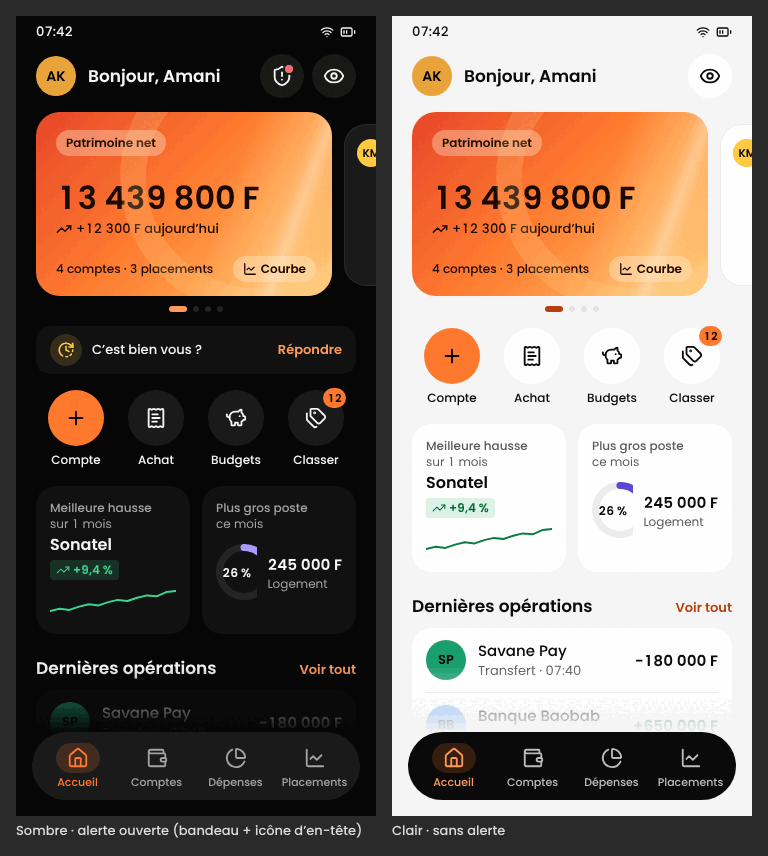
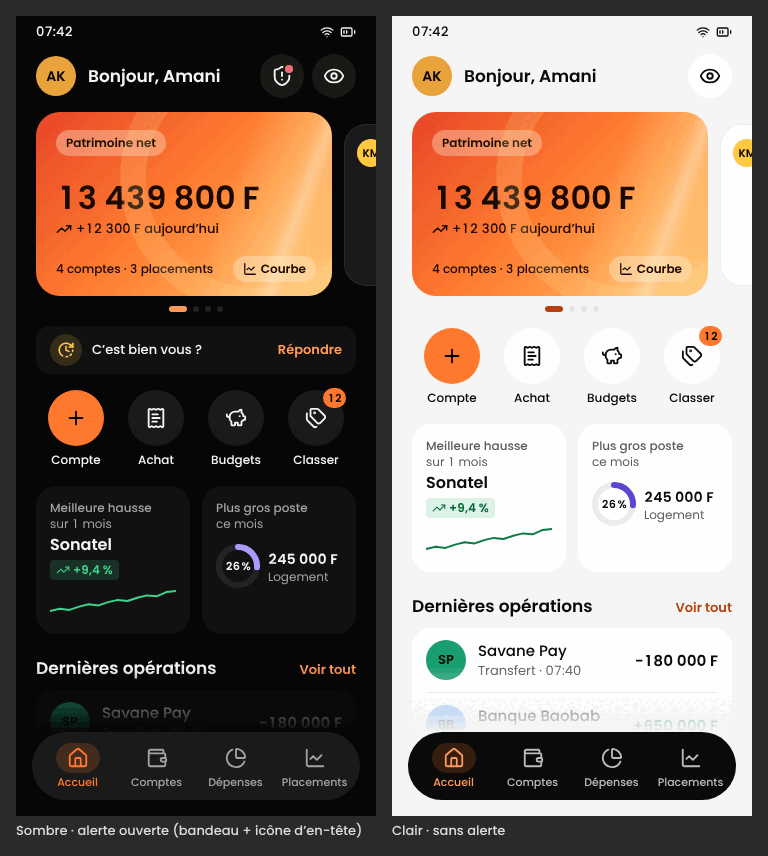
Fix 'Plus gros poste' tile: C17 ring was squeezed and clipped; now Mini 44 dp, fixed size (Home v2, M14 preview, specs)
Claude-Session: https://claude.ai/code/session_01Cw13Lh4aoVkJ6o2f1egyLQ

Changed region(s): [[0.7812, 0.5467, 0.9375, 0.6379], [0.2812, 0.6379, 0.4375, 0.6986]]

diff --git a/design/previews/m14-app-opening-plan.html b/design/previews/m14-app-opening-plan.html
@@ -21,7 +21,7 @@ body{margin:0;background:#2a2a2a;font:15px/22px P}.w{display:flex;gap:16px;paddi
 .cnt{position:absolute;right:-2px;top:-2px;min-width:20px;height:20px;border-radius:10px;background:#FF7A2F;color:#060606;font:600 11px/20px P;text-align:center;font-style:normal;padding:0 4px;box-sizing:border-box}
 .tiles{display:flex;gap:12px;padding:0 20px;margin-top:18px}.tile{flex:1 1 0;min-width:0;height:148px;border-radius:20px;background:var(--s1);padding:14px;box-sizing:border-box;position:relative}
 .tl{font:500 12px/16px P;color:var(--ts)}.tv{font:600 16px/22px P;margin-top:6px;white-space:nowrap}.tg{display:inline-flex;align-items:center;gap:3px;font:600 12px/16px P;padding:2px 6px;border-radius:4px;background:var(--gf);color:var(--gt);margin-top:4px}.sp{margin-top:6px}.tv{margin-top:2px!important}.sbi{width:32px;height:32px;border-radius:50%;background:var(--cf);color:var(--ct);display:grid;place-items:center;flex:none}.tl{white-space:nowrap}.tf2b{font:400 12px/16px P;color:var(--ts)}.tf{position:absolute;left:14px;bottom:12px;font:400 12px/16px P;color:var(--ts)}
-.tr{display:flex;gap:10px;align-items:center;margin-top:12px}.tr .tv{font-size:15px;margin-top:0}.tf2{font:400 12px/16px P;color:var(--ts)}
+.tr{display:flex;flex-wrap:wrap;gap:8px;align-items:center;margin-top:12px}.rgm{flex:none}.tr .tv{font-size:14px;line-height:20px;margin-top:0;white-space:nowrap}.tf2{font:400 12px/16px P;color:var(--ts)}
 .lh{display:flex;justify-content:space-between;align-items:baseline;padding:0 20px;margin-top:22px}.lh b{font:600 17px/24px P}.lh span{font:600 13px P;color:var(--brt)}
 .list{margin:10px 20px 0;background:var(--s1);border-radius:20px;padding:0 14px}.row{display:flex;align-items:center;gap:12px;height:64px;border-top:1px solid var(--hl)}.row:first-child{border-top:0}.mo{width:40px;height:40px;border-radius:50%;display:grid;place-items:center;font:600 13px P;color:#060606;flex:none}.rt{flex:1;display:flex;flex-direction:column}.rt b{font:500 15px/22px P}.rt small{font:400 13px/18px P;color:var(--ts)}.ra{font:600 15px P;font-variant-numeric:tabular-nums}.ra.pos{color:var(--gain)}
 .fade{position:absolute;left:0;right:0;bottom:0;height:150px;background:linear-gradient(180deg,transparent 0%,var(--bg) 45%)}
@@ -49,7 +49,7 @@ body{margin:0;background:#2a2a2a;font:15px/22px P}.w{display:flex;gap:16px;paddi
 <div class="ban"><span class="sbi"> <svg xmlns="http://www.w3.org/2000/svg" width="18" height="18" viewBox="0 0 24 24" fill="none" stroke="currentColor" stroke-width="2.2" stroke-linecap="round" stroke-linejoin="round" > <path d="M12 3a9.75 9.75 0 0 1 6.74 2.74" /> <path d="M18.74 5.74 21 8" /> <path d="M21 8V3" /> <path d="M7.5 19.794c-6-3.464-6-12.124 0-15.588" /> <path d="M7.5 4.206A9 9 0 0 1 12 3" /> <path d="M12 7v5l4 2" /> <path d="M14 20.775A9 9 0 0 1 12 21" /> <path d="M19 17.656a9 9 0 0 1-1.5 1.456" /> <path d="M21 12a9 9 0 0 1-.228 2" /> <path d="M21 8h-5" /> </svg> </span><span class="bt">C’est bien vous ?</span><span class="ba">Répondre</span></div>
 <div class="acts"><div class="act"><span class="ac pri"> <svg xmlns="http://www.w3.org/2000/svg" width="22" height="22" viewBox="0 0 24 24" fill="none" stroke="currentColor" stroke-width="2" stroke-linecap="round" stroke-linejoin="round" > <path d="M5 12h14" /> <path d="M12 5v14" /> </svg> </span><span class="al">Compte</span></div><div class="act"><span class="ac"> <svg xmlns="http://www.w3.org/2000/svg" width="22" height="22" viewBox="0 0 24 24" fill="none" stroke="currentColor" stroke-width="2" stroke-linecap="round" stroke-linejoin="round" > <path d="M13 16H8" /> <path d="M14 8H8" /> <path d="M16 12H8" /> <path d="M4 3a1 1 0 0 1 1-1 1.3 1.3 0 0 1 .7.2l.933.6a1.3 1.3 0 0 0 1.4 0l.934-.6a1.3 1.3 0 0 1 1.4 0l.933.6a1.3 1.3 0 0 0 1.4 0l.933-.6a1.3 1.3 0 0 1 1.4 0l.934.6a1.3 1.3 0 0 0 1.4 0l.933-.6A1.3 1.3 0 0 1 19 2a1 1 0 0 1 1 1v18a1 1 0 0 1-1 1 1.3 1.3 0 0 1-.7-.2l-.933-.6a1.3 1.3 0 0 0-1.4 0l-.934.6a1.3 1.3 0 0 1-1.4 0l-.933-.6a1.3 1.3 0 0 0-1.4 0l-.933.6a1.3 1.3 0 0 1-1.4 0l-.934-.6a1.3 1.3 0 0 0-1.4 0l-.933.6a1.3 1.3 0 0 1-.7.2 1 1 0 0 1-1-1z" /> </svg> </span><span class="al">Achat</span></div><div class="act"><span class="ac"> <svg xmlns="http://www.w3.org/2000/svg" width="22" height="22" viewBox="0 0 24 24" fill="none" stroke="currentColor" stroke-width="2" stroke-linecap="round" stroke-linejoin="round" > <path d="M11 17h3v2a1 1 0 0 0 1 1h2a1 1 0 0 0 1-1v-3a3.16 3.16 0 0 0 2-2h1a1 1 0 0 0 1-1v-2a1 1 0 0 0-1-1h-1a5 5 0 0 0-2-4V3a4 4 0 0 0-3.2 1.6l-.3.4H11a6 6 0 0 0-6 6v1a5 5 0 0 0 2 4v3a1 1 0 0 0 1 1h2a1 1 0 0 0 1-1z" /> <path d="M16 10h.01" /> <path d="M2 8v1a2 2 0 0 0 2 2h1" /> </svg> </span><span class="al">Budgets</span></div><div class="act"><span class="ac"> <svg xmlns="http://www.w3.org/2000/svg" width="22" height="22" viewBox="0 0 24 24" fill="none" stroke="currentColor" stroke-width="2" stroke-linecap="round" stroke-linejoin="round" > <path d="M13.172 2a2 2 0 0 1 1.414.586l6.71 6.71a2.4 2.4 0 0 1 0 3.408l-4.592 4.592a2.4 2.4 0 0 1-3.408 0l-6.71-6.71A2 2 0 0 1 6 9.172V3a1 1 0 0 1 1-1z" /> <path d="M2 7v6.172a2 2 0 0 0 .586 1.414l6.71 6.71a2.4 2.4 0 0 0 3.191.193" /> <circle cx="10.5" cy="6.5" r=".5" fill="currentColor" /> </svg> <i class="cnt">12</i></span><span class="al">Classer</span></div></div>
 <div class="tiles"><div class="tile"><div class="tl">Meilleure hausse</div><div class="tf2b">sur 1 mois</div><div class="tv">Sonatel</div><span class="tg"> <svg xmlns="http://www.w3.org/2000/svg" width="14" height="14" viewBox="0 0 24 24" fill="none" stroke="currentColor" stroke-width="1.75" stroke-linecap="round" stroke-linejoin="round" > <path d="M16 7h6v6" /> <path d="m22 7-8.5 8.5-5-5L2 17" /> </svg> +9,4 %</span><div class="sp"><svg width="126" height="24"><path d="M0.0,22.0 L9.7,19.8 L19.4,20.9 L29.1,17.6 L38.8,15.3 L48.5,16.4 L58.2,13.1 L67.8,10.9 L77.5,12.0 L87.2,8.7 L96.9,6.4 L106.6,7.3 L116.3,3.1 L126.0,2.0" fill="none" stroke="#3DD68C" stroke-width="2" stroke-linecap="round" stroke-linejoin="round"/></svg></div></div>
-<div class="tile"><div class="tl">Plus gros poste</div><div class="tf2b">ce mois</div><div class="tr"><svg width="56" height="56"><circle cx="28.0" cy="28.0" r="24.5" fill="none" stroke="var(--track)" stroke-width="7"/><circle cx="28.0" cy="28.0" r="24.5" fill="none" stroke="#A99BFF" stroke-width="7" stroke-linecap="round" stroke-dasharray="153.9" stroke-dashoffset="113.9" transform="rotate(-90 28.0 28.0)"/><text x="50%" y="50%" dominant-baseline="central" text-anchor="middle" font-family="P" font-weight="600" font-size="12" fill="var(--tp)">26 %</text></svg><div><div class="tv">245 000 F</div><div class="tf2">Logement</div></div></div></div></div>
+<div class="tile"><div class="tl">Plus gros poste</div><div class="tf2b">ce mois</div><div class="tr"><svg class="rgm" width="44" height="44" viewBox="0 0 44 44"><circle cx="22" cy="22" r="19" fill="none" stroke="var(--track)" stroke-width="6"/><circle cx="22" cy="22" r="19" fill="none" stroke="#A99BFF" stroke-width="6" stroke-linecap="round" stroke-dasharray="119.38" stroke-dashoffset="88.34" transform="rotate(-90 22 22)"/><text x="50%" y="50%" dominant-baseline="central" text-anchor="middle" font-family="P" font-weight="600" font-size="11" fill="var(--tp)">26 %</text></svg><div><div class="tv">245 000 F</div><div class="tf2">Logement</div></div></div></div></div>
 <div class="lh"><b>Dernières opérations</b><span>Voir tout</span></div>
 <div class="list"><div class="row"><span class="mo" style="background:#199E70">SP</span><div class="rt"><b>Savane Pay</b><small>Transfert · 07:40</small></div><span class="ra">−180 000 F</span></div><div class="row"><span class="mo" style="background:#6AA8FF">BB</span><div class="rt"><b>Banque Baobab</b><small>Salaire · hier</small></div><span class="ra pos">+650 000 F</span></div><div class="row"><span class="mo" style="background:#FFC940">KM</span><div class="rt"><b>Kola Money</b><small>Courses · hier</small></div><span class="ra">−23 500 F</span></div></div>
 <div class="fade"></div>
@@ -66,7 +66,7 @@ body{margin:0;background:#2a2a2a;font:15px/22px P}.w{display:flex;gap:16px;paddi
 
 <div class="acts"><div class="act"><span class="ac pri"> <svg xmlns="http://www.w3.org/2000/svg" width="22" height="22" viewBox="0 0 24 24" fill="none" stroke="currentColor" stroke-width="2" stroke-linecap="round" stroke-linejoin="round" > <path d="M5 12h14" /> <path d="M12 5v14" /> </svg> </span><span class="al">Compte</span></div><div class="act"><span class="ac"> <svg xmlns="http://www.w3.org/2000/svg" width="22" height="22" viewBox="0 0 24 24" fill="none" stroke="currentColor" stroke-width="2" stroke-linecap="round" stroke-linejoin="round" > <path d="M13 16H8" /> <path d="M14 8H8" /> <path d="M16 12H8" /> <path d="M4 3a1 1 0 0 1 1-1 1.3 1.3 0 0 1 .7.2l.933.6a1.3 1.3 0 0 0 1.4 0l.934-.6a1.3 1.3 0 0 1 1.4 0l.933.6a1.3 1.3 0 0 0 1.4 0l.933-.6a1.3 1.3 0 0 1 1.4 0l.934.6a1.3 1.3 0 0 0 1.4 0l.933-.6A1.3 1.3 0 0 1 19 2a1 1 0 0 1 1 1v18a1 1 0 0 1-1 1 1.3 1.3 0 0 1-.7-.2l-.933-.6a1.3 1.3 0 0 0-1.4 0l-.934.6a1.3 1.3 0 0 1-1.4 0l-.933-.6a1.3 1.3 0 0 0-1.4 0l-.933.6a1.3 1.3 0 0 1-1.4 0l-.934-.6a1.3 1.3 0 0 0-1.4 0l-.933.6a1.3 1.3 0 0 1-.7.2 1 1 0 0 1-1-1z" /> </svg> </span><span class="al">Achat</span></div><div class="act"><span class="ac"> <svg xmlns="http://www.w3.org/2000/svg" width="22" height="22" viewBox="0 0 24 24" fill="none" stroke="currentColor" stroke-width="2" stroke-linecap="round" stroke-linejoin="round" > <path d="M11 17h3v2a1 1 0 0 0 1 1h2a1 1 0 0 0 1-1v-3a3.16 3.16 0 0 0 2-2h1a1 1 0 0 0 1-1v-2a1 1 0 0 0-1-1h-1a5 5 0 0 0-2-4V3a4 4 0 0 0-3.2 1.6l-.3.4H11a6 6 0 0 0-6 6v1a5 5 0 0 0 2 4v3a1 1 0 0 0 1 1h2a1 1 0 0 0 1-1z" /> <path d="M16 10h.01" /> <path d="M2 8v1a2 2 0 0 0 2 2h1" /> </svg> </span><span class="al">Budgets</span></div><div class="act"><span class="ac"> <svg xmlns="http://www.w3.org/2000/svg" width="22" height="22" viewBox="0 0 24 24" fill="none" stroke="currentColor" stroke-width="2" stroke-linecap="round" stroke-linejoin="round" > <path d="M13.172 2a2 2 0 0 1 1.414.586l6.71 6.71a2.4 2.4 0 0 1 0 3.408l-4.592 4.592a2.4 2.4 0 0 1-3.408 0l-6.71-6.71A2 2 0 0 1 6 9.172V3a1 1 0 0 1 1-1z" /> <path d="M2 7v6.172a2 2 0 0 0 .586 1.414l6.71 6.71a2.4 2.4 0 0 0 3.191.193" /> <circle cx="10.5" cy="6.5" r=".5" fill="currentColor" /> </svg> <i class="cnt">12</i></span><span class="al">Classer</span></div></div>
 <div class="tiles"><div class="tile"><div class="tl">Meilleure hausse</div><div class="tf2b">sur 1 mois</div><div class="tv">Sonatel</div><span class="tg"> <svg xmlns="http://www.w3.org/2000/svg" width="14" height="14" viewBox="0 0 24 24" fill="none" stroke="currentColor" stroke-width="1.75" stroke-linecap="round" stroke-linejoin="round" > <path d="M16 7h6v6" /> <path d="m22 7-8.5 8.5-5-5L2 17" /> </svg> +9,4 %</span><div class="sp"><svg width="126" height="24"><path d="M0.0,22.0 L9.7,19.8 L19.4,20.9 L29.1,17.6 L38.8,15.3 L48.5,16.4 L58.2,13.1 L67.8,10.9 L77.5,12.0 L87.2,8.7 L96.9,6.4 L106.6,7.3 L116.3,3.1 L126.0,2.0" fill="none" stroke="#0E7A43" stroke-width="2" stroke-linecap="round" stroke-linejoin="round"/></svg></div></div>
-<div class="tile"><div class="tl">Plus gros poste</div><div class="tf2b">ce mois</div><div class="tr"><svg width="56" height="56"><circle cx="28.0" cy="28.0" r="24.5" fill="none" stroke="var(--track)" stroke-width="7"/><circle cx="28.0" cy="28.0" r="24.5" fill="none" stroke="#5B47D1" stroke-width="7" stroke-linecap="round" stroke-dasharray="153.9" stroke-dashoffset="113.9" transform="rotate(-90 28.0 28.0)"/><text x="50%" y="50%" dominant-baseline="central" text-anchor="middle" font-family="P" font-weight="600" font-size="12" fill="var(--tp)">26 %</text></svg><div><div class="tv">245 000 F</div><div class="tf2">Logement</div></div></div></div></div>
+<div class="tile"><div class="tl">Plus gros poste</div><div class="tf2b">ce mois</div><div class="tr"><svg class="rgm" width="44" height="44" viewBox="0 0 44 44"><circle cx="22" cy="22" r="19" fill="none" stroke="var(--track)" stroke-width="6"/><circle cx="22" cy="22" r="19" fill="none" stroke="#5B47D1" stroke-width="6" stroke-linecap="round" stroke-dasharray="119.38" stroke-dashoffset="88.34" transform="rotate(-90 22 22)"/><text x="50%" y="50%" dominant-baseline="central" text-anchor="middle" font-family="P" font-weight="600" font-size="11" fill="var(--tp)">26 %</text></svg><div><div class="tv">245 000 F</div><div class="tf2">Logement</div></div></div></div></div>
 <div class="lh"><b>Dernières opérations</b><span>Voir tout</span></div>
 <div class="list"><div class="row"><span class="mo" style="background:#199E70">SP</span><div class="rt"><b>Savane Pay</b><small>Transfert · 07:40</small></div><span class="ra">−180 000 F</span></div><div class="row"><span class="mo" style="background:#6AA8FF">BB</span><div class="rt"><b>Banque Baobab</b><small>Salaire · hier</small></div><span class="ra pos">+650 000 F</span></div><div class="row"><span class="mo" style="background:#FFC940">KM</span><div class="rt"><b>Kola Money</b><small>Courses · hier</small></div><span class="ra">−23 500 F</span></div></div>
 <div class="fade"></div>

diff --git a/design/previews/s2-home-v2.html b/design/previews/s2-home-v2.html
@@ -21,7 +21,7 @@ body{margin:0;background:#2a2a2a;font:15px/22px P}.w{display:flex;gap:16px;paddi
 .cnt{position:absolute;right:-2px;top:-2px;min-width:20px;height:20px;border-radius:10px;background:#FF7A2F;color:#060606;font:600 11px/20px P;text-align:center;font-style:normal;padding:0 4px;box-sizing:border-box}
 .tiles{display:flex;gap:12px;padding:0 20px;margin-top:18px}.tile{flex:1 1 0;min-width:0;height:148px;border-radius:20px;background:var(--s1);padding:14px;box-sizing:border-box;position:relative}
 .tl{font:500 12px/16px P;color:var(--ts)}.tv{font:600 16px/22px P;margin-top:6px;white-space:nowrap}.tg{display:inline-flex;align-items:center;gap:3px;font:600 12px/16px P;padding:2px 6px;border-radius:4px;background:var(--gf);color:var(--gt);margin-top:4px}.sp{margin-top:6px}.tv{margin-top:2px!important}.sbi{width:32px;height:32px;border-radius:50%;background:var(--cf);color:var(--ct);display:grid;place-items:center;flex:none}.tl{white-space:nowrap}.tf2b{font:400 12px/16px P;color:var(--ts)}.tf{position:absolute;left:14px;bottom:12px;font:400 12px/16px P;color:var(--ts)}
-.tr{display:flex;gap:10px;align-items:center;margin-top:12px}.tr .tv{font-size:15px;margin-top:0}.tf2{font:400 12px/16px P;color:var(--ts)}
+.tr{display:flex;flex-wrap:wrap;gap:8px;align-items:center;margin-top:12px}.rgm{flex:none}.tr .tv{font-size:14px;line-height:20px;margin-top:0;white-space:nowrap}.tf2{font:400 12px/16px P;color:var(--ts)}
 .lh{display:flex;justify-content:space-between;align-items:baseline;padding:0 20px;margin-top:22px}.lh b{font:600 17px/24px P}.lh span{font:600 13px P;color:var(--brt)}
 .list{margin:10px 20px 0;background:var(--s1);border-radius:20px;padding:0 14px}.row{display:flex;align-items:center;gap:12px;height:64px;border-top:1px solid var(--hl)}.row:first-child{border-top:0}.mo{width:40px;height:40px;border-radius:50%;display:grid;place-items:center;font:600 13px P;color:#060606;flex:none}.rt{flex:1;display:flex;flex-direction:column}.rt b{font:500 15px/22px P}.rt small{font:400 13px/18px P;color:var(--ts)}.ra{font:600 15px P;font-variant-numeric:tabular-nums}.ra.pos{color:var(--gain)}
 .fade{position:absolute;left:0;right:0;bottom:0;height:150px;background:linear-gradient(180deg,transparent 0%,var(--bg) 45%)}
@@ -34,7 +34,7 @@ body{margin:0;background:#2a2a2a;font:15px/22px P}.w{display:flex;gap:16px;paddi
 <div class="ban"><span class="sbi"> <svg xmlns="http://www.w3.org/2000/svg" width="18" height="18" viewBox="0 0 24 24" fill="none" stroke="currentColor" stroke-width="2.2" stroke-linecap="round" stroke-linejoin="round" > <path d="M12 3a9.75 9.75 0 0 1 6.74 2.74" /> <path d="M18.74 5.74 21 8" /> <path d="M21 8V3" /> <path d="M7.5 19.794c-6-3.464-6-12.124 0-15.588" /> <path d="M7.5 4.206A9 9 0 0 1 12 3" /> <path d="M12 7v5l4 2" /> <path d="M14 20.775A9 9 0 0 1 12 21" /> <path d="M19 17.656a9 9 0 0 1-1.5 1.456" /> <path d="M21 12a9 9 0 0 1-.228 2" /> <path d="M21 8h-5" /> </svg> </span><span class="bt">C’est bien vous ?</span><span class="ba">Répondre</span></div>
 <div class="acts"><div class="act"><span class="ac pri"> <svg xmlns="http://www.w3.org/2000/svg" width="22" height="22" viewBox="0 0 24 24" fill="none" stroke="currentColor" stroke-width="2" stroke-linecap="round" stroke-linejoin="round" > <path d="M5 12h14" /> <path d="M12 5v14" /> </svg> </span><span class="al">Compte</span></div><div class="act"><span class="ac"> <svg xmlns="http://www.w3.org/2000/svg" width="22" height="22" viewBox="0 0 24 24" fill="none" stroke="currentColor" stroke-width="2" stroke-linecap="round" stroke-linejoin="round" > <path d="M13 16H8" /> <path d="M14 8H8" /> <path d="M16 12H8" /> <path d="M4 3a1 1 0 0 1 1-1 1.3 1.3 0 0 1 .7.2l.933.6a1.3 1.3 0 0 0 1.4 0l.934-.6a1.3 1.3 0 0 1 1.4 0l.933.6a1.3 1.3 0 0 0 1.4 0l.933-.6a1.3 1.3 0 0 1 1.4 0l.934.6a1.3 1.3 0 0 0 1.4 0l.933-.6A1.3 1.3 0 0 1 19 2a1 1 0 0 1 1 1v18a1 1 0 0 1-1 1 1.3 1.3 0 0 1-.7-.2l-.933-.6a1.3 1.3 0 0 0-1.4 0l-.934.6a1.3 1.3 0 0 1-1.4 0l-.933-.6a1.3 1.3 0 0 0-1.4 0l-.933.6a1.3 1.3 0 0 1-1.4 0l-.934-.6a1.3 1.3 0 0 0-1.4 0l-.933.6a1.3 1.3 0 0 1-.7.2 1 1 0 0 1-1-1z" /> </svg> </span><span class="al">Achat</span></div><div class="act"><span class="ac"> <svg xmlns="http://www.w3.org/2000/svg" width="22" height="22" viewBox="0 0 24 24" fill="none" stroke="currentColor" stroke-width="2" stroke-linecap="round" stroke-linejoin="round" > <path d="M11 17h3v2a1 1 0 0 0 1 1h2a1 1 0 0 0 1-1v-3a3.16 3.16 0 0 0 2-2h1a1 1 0 0 0 1-1v-2a1 1 0 0 0-1-1h-1a5 5 0 0 0-2-4V3a4 4 0 0 0-3.2 1.6l-.3.4H11a6 6 0 0 0-6 6v1a5 5 0 0 0 2 4v3a1 1 0 0 0 1 1h2a1 1 0 0 0 1-1z" /> <path d="M16 10h.01" /> <path d="M2 8v1a2 2 0 0 0 2 2h1" /> </svg> </span><span class="al">Budgets</span></div><div class="act"><span class="ac"> <svg xmlns="http://www.w3.org/2000/svg" width="22" height="22" viewBox="0 0 24 24" fill="none" stroke="currentColor" stroke-width="2" stroke-linecap="round" stroke-linejoin="round" > <path d="M13.172 2a2 2 0 0 1 1.414.586l6.71 6.71a2.4 2.4 0 0 1 0 3.408l-4.592 4.592a2.4 2.4 0 0 1-3.408 0l-6.71-6.71A2 2 0 0 1 6 9.172V3a1 1 0 0 1 1-1z" /> <path d="M2 7v6.172a2 2 0 0 0 .586 1.414l6.71 6.71a2.4 2.4 0 0 0 3.191.193" /> <circle cx="10.5" cy="6.5" r=".5" fill="currentColor" /> </svg> <i class="cnt">12</i></span><span class="al">Classer</span></div></div>
 <div class="tiles"><div class="tile"><div class="tl">Meilleure hausse</div><div class="tf2b">sur 1 mois</div><div class="tv">Sonatel</div><span class="tg"> <svg xmlns="http://www.w3.org/2000/svg" width="14" height="14" viewBox="0 0 24 24" fill="none" stroke="currentColor" stroke-width="1.75" stroke-linecap="round" stroke-linejoin="round" > <path d="M16 7h6v6" /> <path d="m22 7-8.5 8.5-5-5L2 17" /> </svg> +9,4 %</span><div class="sp"><svg width="126" height="24"><path d="M0.0,22.0 L9.7,19.8 L19.4,20.9 L29.1,17.6 L38.8,15.3 L48.5,16.4 L58.2,13.1 L67.8,10.9 L77.5,12.0 L87.2,8.7 L96.9,6.4 L106.6,7.3 L116.3,3.1 L126.0,2.0" fill="none" stroke="#3DD68C" stroke-width="2" stroke-linecap="round" stroke-linejoin="round"/></svg></div></div>
-<div class="tile"><div class="tl">Plus gros poste</div><div class="tf2b">ce mois</div><div class="tr"><svg width="56" height="56"><circle cx="28.0" cy="28.0" r="24.5" fill="none" stroke="var(--track)" stroke-width="7"/><circle cx="28.0" cy="28.0" r="24.5" fill="none" stroke="#A99BFF" stroke-width="7" stroke-linecap="round" stroke-dasharray="153.9" stroke-dashoffset="113.9" transform="rotate(-90 28.0 28.0)"/><text x="50%" y="50%" dominant-baseline="central" text-anchor="middle" font-family="P" font-weight="600" font-size="12" fill="var(--tp)">26 %</text></svg><div><div class="tv">245 000 F</div><div class="tf2">Logement</div></div></div></div></div>
+<div class="tile"><div class="tl">Plus gros poste</div><div class="tf2b">ce mois</div><div class="tr"><svg class="rgm" width="44" height="44" viewBox="0 0 44 44"><circle cx="22" cy="22" r="19" fill="none" stroke="var(--track)" stroke-width="6"/><circle cx="22" cy="22" r="19" fill="none" stroke="#A99BFF" stroke-width="6" stroke-linecap="round" stroke-dasharray="119.38" stroke-dashoffset="88.34" transform="rotate(-90 22 22)"/><text x="50%" y="50%" dominant-baseline="central" text-anchor="middle" font-family="P" font-weight="600" font-size="11" fill="var(--tp)">26 %</text></svg><div><div class="tv">245 000 F</div><div class="tf2">Logement</div></div></div></div></div>
 <div class="lh"><b>Dernières opérations</b><span>Voir tout</span></div>
 <div class="list"><div class="row"><span class="mo" style="background:#199E70">SP</span><div class="rt"><b>Savane Pay</b><small>Transfert · 07:40</small></div><span class="ra">−180 000 F</span></div><div class="row"><span class="mo" style="background:#6AA8FF">BB</span><div class="rt"><b>Banque Baobab</b><small>Salaire · hier</small></div><span class="ra pos">+650 000 F</span></div><div class="row"><span class="mo" style="background:#FFC940">KM</span><div class="rt"><b>Kola Money</b><small>Courses · hier</small></div><span class="ra">−23 500 F</span></div></div>
 <div class="fade"></div>
@@ -48,7 +48,7 @@ body{margin:0;background:#2a2a2a;font:15px/22px P}.w{display:flex;gap:16px;paddi
 
 <div class="acts"><div class="act"><span class="ac pri"> <svg xmlns="http://www.w3.org/2000/svg" width="22" height="22" viewBox="0 0 24 24" fill="none" stroke="currentColor" stroke-width="2" stroke-linecap="round" stroke-linejoin="round" > <path d="M5 12h14" /> <path d="M12 5v14" /> </svg> </span><span class="al">Compte</span></div><div class="act"><span class="ac"> <svg xmlns="http://www.w3.org/2000/svg" width="22" height="22" viewBox="0 0 24 24" fill="none" stroke="currentColor" stroke-width="2" stroke-linecap="round" stroke-linejoin="round" > <path d="M13 16H8" /> <path d="M14 8H8" /> <path d="M16 12H8" /> <path d="M4 3a1 1 0 0 1 1-1 1.3 1.3 0 0 1 .7.2l.933.6a1.3 1.3 0 0 0 1.4 0l.934-.6a1.3 1.3 0 0 1 1.4 0l.933.6a1.3 1.3 0 0 0 1.4 0l.933-.6a1.3 1.3 0 0 1 1.4 0l.934.6a1.3 1.3 0 0 0 1.4 0l.933-.6A1.3 1.3 0 0 1 19 2a1 1 0 0 1 1 1v18a1 1 0 0 1-1 1 1.3 1.3 0 0 1-.7-.2l-.933-.6a1.3 1.3 0 0 0-1.4 0l-.934.6a1.3 1.3 0 0 1-1.4 0l-.933-.6a1.3 1.3 0 0 0-1.4 0l-.933.6a1.3 1.3 0 0 1-1.4 0l-.934-.6a1.3 1.3 0 0 0-1.4 0l-.933.6a1.3 1.3 0 0 1-.7.2 1 1 0 0 1-1-1z" /> </svg> </span><span class="al">Achat</span></div><div class="act"><span class="ac"> <svg xmlns="http://www.w3.org/2000/svg" width="22" height="22" viewBox="0 0 24 24" fill="none" stroke="currentColor" stroke-width="2" stroke-linecap="round" stroke-linejoin="round" > <path d="M11 17h3v2a1 1 0 0 0 1 1h2a1 1 0 0 0 1-1v-3a3.16 3.16 0 0 0 2-2h1a1 1 0 0 0 1-1v-2a1 1 0 0 0-1-1h-1a5 5 0 0 0-2-4V3a4 4 0 0 0-3.2 1.6l-.3.4H11a6 6 0 0 0-6 6v1a5 5 0 0 0 2 4v3a1 1 0 0 0 1 1h2a1 1 0 0 0 1-1z" /> <path d="M16 10h.01" /> <path d="M2 8v1a2 2 0 0 0 2 2h1" /> </svg> </span><span class="al">Budgets</span></div><div class="act"><span class="ac"> <svg xmlns="http://www.w3.org/2000/svg" width="22" height="22" viewBox="0 0 24 24" fill="none" stroke="currentColor" stroke-width="2" stroke-linecap="round" stroke-linejoin="round" > <path d="M13.172 2a2 2 0 0 1 1.414.586l6.71 6.71a2.4 2.4 0 0 1 0 3.408l-4.592 4.592a2.4 2.4 0 0 1-3.408 0l-6.71-6.71A2 2 0 0 1 6 9.172V3a1 1 0 0 1 1-1z" /> <path d="M2 7v6.172a2 2 0 0 0 .586 1.414l6.71 6.71a2.4 2.4 0 0 0 3.191.193" /> <circle cx="10.5" cy="6.5" r=".5" fill="currentColor" /> </svg> <i class="cnt">12</i></span><span class="al">Classer</span></div></div>
 <div class="tiles"><div class="tile"><div class="tl">Meilleure hausse</div><div class="tf2b">sur 1 mois</div><div class="tv">Sonatel</div><span class="tg"> <svg xmlns="http://www.w3.org/2000/svg" width="14" height="14" viewBox="0 0 24 24" fill="none" stroke="currentColor" stroke-width="1.75" stroke-linecap="round" stroke-linejoin="round" > <path d="M16 7h6v6" /> <path d="m22 7-8.5 8.5-5-5L2 17" /> </svg> +9,4 %</span><div class="sp"><svg width="126" height="24"><path d="M0.0,22.0 L9.7,19.8 L19.4,20.9 L29.1,17.6 L38.8,15.3 L48.5,16.4 L58.2,13.1 L67.8,10.9 L77.5,12.0 L87.2,8.7 L96.9,6.4 L106.6,7.3 L116.3,3.1 L126.0,2.0" fill="none" stroke="#0E7A43" stroke-width="2" stroke-linecap="round" stroke-linejoin="round"/></svg></div></div>
-<div class="tile"><div class="tl">Plus gros poste</div><div class="tf2b">ce mois</div><div class="tr"><svg width="56" height="56"><circle cx="28.0" cy="28.0" r="24.5" fill="none" stroke="var(--track)" stroke-width="7"/><circle cx="28.0" cy="28.0" r="24.5" fill="none" stroke="#5B47D1" stroke-width="7" stroke-linecap="round" stroke-dasharray="153.9" stroke-dashoffset="113.9" transform="rotate(-90 28.0 28.0)"/><text x="50%" y="50%" dominant-baseline="central" text-anchor="middle" font-family="P" font-weight="600" font-size="12" fill="var(--tp)">26 %</text></svg><div><div class="tv">245 000 F</div><div class="tf2">Logement</div></div></div></div></div>
+<div class="tile"><div class="tl">Plus gros poste</div><div class="tf2b">ce mois</div><div class="tr"><svg class="rgm" width="44" height="44" viewBox="0 0 44 44"><circle cx="22" cy="22" r="19" fill="none" stroke="var(--track)" stroke-width="6"/><circle cx="22" cy="22" r="19" fill="none" stroke="#5B47D1" stroke-width="6" stroke-linecap="round" stroke-dasharray="119.38" stroke-dashoffset="88.34" transform="rotate(-90 22 22)"/><text x="50%" y="50%" dominant-baseline="central" text-anchor="middle" font-family="P" font-weight="600" font-size="11" fill="var(--tp)">26 %</text></svg><div><div class="tv">245 000 F</div><div class="tf2">Logement</div></div></div></div></div>
 <div class="lh"><b>Dernières opérations</b><span>Voir tout</span></div>
 <div class="list"><div class="row"><span class="mo" style="background:#199E70">SP</span><div class="rt"><b>Savane Pay</b><small>Transfert · 07:40</small></div><span class="ra">−180 000 F</span></div><div class="row"><span class="mo" style="background:#6AA8FF">BB</span><div class="rt"><b>Banque Baobab</b><small>Salaire · hier</small></div><span class="ra pos">+650 000 F</span></div><div class="row"><span class="mo" style="background:#FFC940">KM</span><div class="rt"><b>Kola Money</b><small>Courses · hier</small></div><span class="ra">−23 500 F</span></div></div>
 <div class="fade"></div>

diff --git a/design/screens/s2-home.md b/design/screens/s2-home.md
@@ -26,7 +26,7 @@ states.
 | 3 | Page dots | 10 under; 6 × 6 dots, active 18 × 6 `brand.text`, inactive `surface3`; one per card |
 | 4 | Alert banner (only with an open alert) | 14 under; 48 high, radius 14, `surface1`; 32 dp yellow circle (C15 confirm tint) with `rotate-cw-fading-clock` (40-70) or red tint with `shield-check` (> 70); text "C'est bien vous ?" / "Banque prévenue" 13/18 Medium; action "Répondre" / "Suivre" 13 SemiBold `brand.text`; tap → B13 / B14 (S6 rule for ≥ 2 alerts: "{n} alertes" → L1). During learning: the B5 card takes this place instead |
 | 5 | Quick actions | 16 under; 4 circles 56 (`#1B1B1B` dark / `#FFFFFF` light, icon 22 `text.primary`), first one brand fill `#FF7A2F` with `#060606` icon; labels 12/16 Medium 6 under; row padding 28: **Compte** `plus` (→ B21 add account) · **Achat** `receipt-text` (→ B18 add purchase, P3) · **Budgets** `piggy-bank` (→ D3) · **Classer** `tags` (→ A2 filtered "À classer"; count badge 20 dp brand fill when `uncategorised_count` > 0, hidden at 0) |
-| 6 | Two tiles | 18 under; two C7 cards (flex 1 : 1, gap 12, height 148, radius 20, padding 14): **Meilleure hausse** / "sur 1 mois" (12/16 `text.secondary`), asset name 16/22 SemiBold, C14 gain tag, G2 sparkline 126 × 24 in `gain` → P6 asset; **Plus gros poste** / "ce mois", C17 ring 56 in the category colour (C21) with "%" of month spending, amount 15/22 SemiBold + category 12/16 → D2 category |
+| 6 | Two tiles | 18 under; two C7 cards (flex 1 : 1, gap 12, height 148, radius 20, padding 14): **Meilleure hausse** / "sur 1 mois" (12/16 `text.secondary`), asset name 16/22 SemiBold, C14 gain tag, G2 sparkline 126 × 24 in `gain` → P6 asset; **Plus gros poste** / "ce mois", C17 ring **44 (Mini size, fixed: never shrinks — flex none; fix 2026-11-23, the 56 ring was squeezed to 41 dp and clipped)** in the category colour (C21) with "%" of month spending, gap 8, amount **14/20** SemiBold no-wrap + category 12/16 (at large font the text wraps under the ring) → D2 category |
 | 7 | Dernières opérations | 22 under; title 17/24 SemiBold + "Voir tout" 13 SemiBold `brand.text` (→ A2 all accounts); one C7 card radius 20 of **3** C6 rows (monogram 40, name 15/22 Medium, "type · heure" 13/18, amount 15 SemiBold, credits in `gain`) |
 | — | Bottom bar | C12 v2 floating pill (§ C12), Accueil active; a 150 dp fade of `bg` behind it so rows scrolling under it never show text under the bar's labels |
 

diff --git a/design/components/chips-choice-progress.md b/design/components/chips-choice-progress.md
@@ -47,6 +47,7 @@ TalkBack: native switch/checkbox/radio roles with state.
 | Size | Ring | Stroke | Label | Where |
 |---|---|---|---|---|
 | Row | 52 dp | 6 | 11 | budget list (D3, B6) |
+| Mini | 44 dp | 6 | 11 | Home "Plus gros poste" tile, next to the amount (never shrinks: flex none) |
 | Tile | 64 dp | 7 | 13 | Home budget tiles, 2 per row (B6 compact) |
 | Learning | 56 dp | 7 | 12 | B5 card ("12/30") |
 
